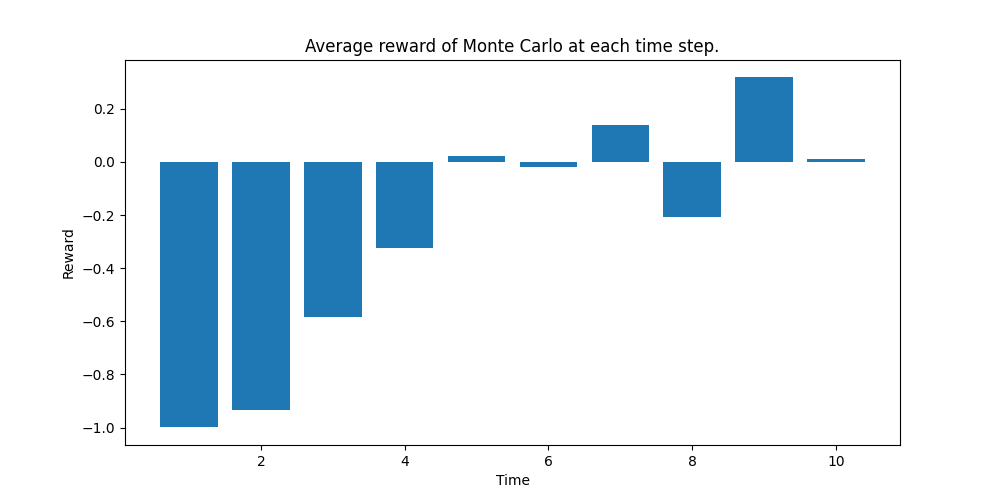
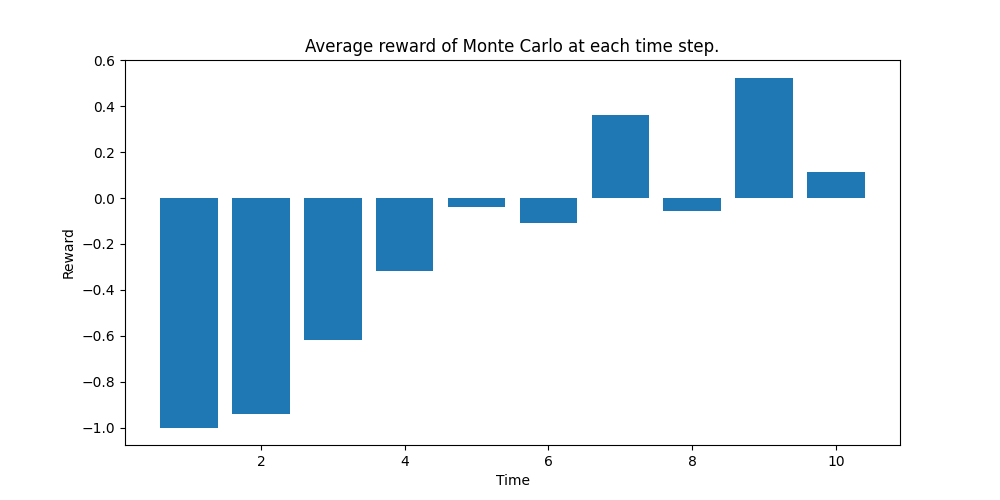
Final report and updated plots

diff --git a/report_src/report_group14.tex b/report_src/report_group14.tex
@@ -54,6 +54,7 @@
 \usepackage{amsthm}
 \usepackage{hyperref}
 \usepackage{diagbox}
+\usepackage{verbatim}
 
 \usepackage[
 backend=biber,
@@ -122,12 +123,13 @@ style=apa,
 \begin{document}
 \makemytitle
 \begin{center}
-    \textbf{03-04-2025}\\
+    \textbf{06-04-2025}\\
 \end{center}
 
 \noindent By Ella Kemperman, student number \textit{s1119890}, Ioana-Anastasia Orasanu, student number \textit{s1112418}, Rostyslav Redchyts, student number \textit{s1113227}, Mila van Rijsbergen student number \textit{s1128515}.
 
 \section{Introduction}
+\begin{comment}
 Reinforcement Learning (RL) has become increasingly relevant in Machine Learning over the past decade. RL has been irreplaceable in robotics for a while, and recently, it has also contributed to the AI revolution through approaches like RLHF (Reinforcement Learning with Human Feedback). Despite its prevalence, RL is already a mature and complex field, which can be intimidating to newcomers. Hence, in this report, we look over a few simple algorithms to explain how they work and get some insight into how they differ from each other.
 \\ [0.3cm]
 More specifically, various RL algorithms were implemented, and their performance in a certain environment was compared. This environment was designed specifically for this project and involved an agent, also referred to as 'the cat', navigating a 2-dimensional grid while chasing a target, metaphorically referred to as 'the mouse'.
@@ -136,7 +138,14 @@ The environment (see \autoref{fig:environment}) is discrete, with both the agent
 \\[0.3cm]
 The agent receives a penalty of -1 for each step that resulted in an empty cell, a reduced penalty of -0.1 for landing on a tree, and a reward of +20 for catching the mouse (regardless of the cell type). These rewards were chosen to motivate the agent to catch the mouse as quickly while also giving some space for developing halting strategies.
 \\[0.3cm]
-The project consists of comparing two algorithms from Dynamic Programming (DP), which include Policy Iteration and Value Iteration (discussed in \autoref{sec: dynamic programming}; a Monte-Carlo method (discussed in \autoref{sec: monte-carlo}); and three Temporal Difference (TD) algorithms (mainly discussed in \autoref{sec: temporal difference}): Sarsa, Q-Learning, and Deep Q-Learning (discussed in \autoref{app: deep q-learning}). To achieve this, the performance of the learned policies was compared as they were being refined during learning. Furthermore, the final policies and their returns are compared as well. This is done in \autoref{sec: comparison and discussion}.
+The project consists of comparing two algorithms from Dynamic Programming (DP), which include Policy Iteration and Value Iteration (see \autoref{sec: dynamic programming}; a Monte-Carlo method (see \autoref{sec: monte-carlo}); and three Temporal Difference (TD) algorithms (see \autoref{sec: temporal difference}): Sarsa, Q-Learning, and Deep Q-Learning (see \autoref{app: deep q-learning}). To achieve this, the performance of the learned policies was compared as they were being refined during learning. Furthermore, the final policies and their returns are compared as well. This is done in \autoref{sec: comparison and discussion}.
+\end{comment}
+
+Reinforcement Learning (RL) has become crucial in Machine Learning by contributing to the AI revolution through approaches such as RLHF (Reinforcement Learning with Human Feedback). In this report, some RL algorithms are discussed in order to get insight into how they differ.
+\\[0.3cm]
+The environment in which the algorithms were tested was specifically designed for this project. Thus, it involves an agent, also referred to as ’the cat’, navigating a 2-dimensional grid while chasing a target, ’the mouse’. The environment (see \autoref{fig:environment}) is discrete and both the agent and the target have four possible movements. Two obstacles were added to the environment: a "tree" cell which the cat can traverse but the mouse cannot, and walls in between certain cells, impermeable for the cat, permeable for the mouse. The agent receives a penalty of -1 for each step that resulted in an empty cell, a reduced penalty of -0.1 for landing on a tree, and a reward of +20 for catching the mouse (regardless of the cell type).
+\\[0.3cm]
+The project consists of comparing two algorithms from Dynamic Programming (DP) (see \autoref{sec: dynamic programming}); a Monte-Carlo (MC) method (see \autoref{sec: monte-carlo}), and two Temporal Difference (TD) algorithms (see \autoref{sec: temporal difference}). Additionally, Deep Q-learning has been implemented (see \autoref{app: deep q-learning}). Finally, the performance of the learned policies was compared as they were being refined during learning, in addition to the policies' final returns. This is done in \autoref{sec: comparison and discussion}.
 
 \begin{figure}[H]
     \centering
@@ -154,12 +163,14 @@ The project consists of comparing two algorithms from Dynamic Programming (DP), 
 
 \section{Dynamic Programming}
 \label{sec: dynamic programming}
-The idea behind the first family of algorithms discussed --- Dynamic Programming --- lies in the approach of dividing a large problem (e.g. finding an optimal policy) into smaller sub-problems, like improving a current policy, based on the current estimate of the value function. Solving these smaller subproblems is guaranteed to lead to an optimal solution to the main problem (although it might take infinite iterations).
+The idea behind the first family of algorithms discussed --- Dynamic Programming (DP) --- lies in the approach of dividing a large problem into smaller sub-problems, such as improving a current policy, based on the current estimate of the value function. Solving these smaller subproblems is guaranteed to lead to an optimal solution to the main problem.
 \\[0.3cm]
-For this project, two DP algorithms were implemented and tested: Policy iteration and Value Iteration.
+For this project, two DP algorithms were implemented and tested: Policy Iteration (\autoref{subsec: policy iteration}) and Value Iteration (\autoref{subsec: value iteration}).
 
 \subsection{Policy Iteration}
-The main idea of Policy Iteration is to find an optimal solution through planning. Specifically, the process consists of iteratively evaluating the current policy (through Policy Evaluation) and improving this policy, based on the updates estimate of the value function (through Policy Improvement), until convergence.\\[0.3cm]
+\label{subsec: policy iteration}
+\begin{comment}
+The main idea of Policy Iteration is to find an optimal solution through planning. Specifically, the process consists of iteratively evaluating the current policy (through Policy Evaluation) and improving this policy, based on the updated estimate of the value function (through Policy Improvement), until convergence.\\[0.3cm]
 Refer to \autoref{fig:policy_iteration_pseudocode} for a full pseudocode.
 
 \subsubsection{Policy Evaluation}
@@ -177,17 +188,36 @@ Policy Improvement algorithm relies on the estimated value function, obtained th
 \end{figure}
 
 \subsubsection{Implementation}
-This algorithm was implemented as a set of methods in the \code{DynamicProgrammingPolicy} class. This allows the algorithm to update the policy by just modifying itself. The policy itself is stored as a dictionary, mapping each possible observation to the action that is taken. The state-value function is also represented as a dictionary that maps state to value. The policy iteration and policy improvement parts were separated into two methods, the former calling policy evaluation and then policy improvement, until no more changes to the policy are made.
+This algorithm was implemented as a set of methods in the \code{DynamicProgrammingPolicy} class. This allows the algorithm to update the policy by just modifying itself. The policy itself is stored as a dictionary, mapping each possible observation to the action taken. The state-value function is also represented as a dictionary that maps state to value. The policy iteration and policy improvement parts were separated into two methods, the former calling policy evaluation and then policy improvement, until no more changes to the policy are made.
 
-\subsection{Value Iteration}
-The principle of optimality states that a policy $\pi$ achieves the optimal value from state s, $v_\pi(s) = v^*(s)$ if and only if from any state $s'$ reachable from s, $\pi$ achieves the optimal value $v_\pi(s') = v^*(s')$. Thus, this theorem directly leads to the value iteration algorithm. With value iteration, the most optimal state value function is computed by iteratively updating the estimate. The algorithm outputs a new approximately optimal policy.
+\end{comment}
+
+The main idea of Policy Iteration is to find an optimal solution through planning. Specifically, the process consists of iteratively evaluating the current policy (Policy Evaluation) and improving this policy, based on the updated estimate of the value function (Policy Improvement), until convergence. Refer to \autoref{fig:policy_iteration_pseudocode} for a full pseudocode.
 \\[0.3cm]
-The process starts by selecting a random value function, over which is iterated using the Bellman equations as an update rule, updating the values for all states. This process gets repeated until convergence to optimal value function, which is guaranteed. Once the optimal value is found, it takes the actions such that the maximum in the Bellman optimality equation is satisfied. For the pseudocode, see \autoref{fig:value_iteration_pseudocode}.
+The state values are updated using the Bellman expectation equation, estimating future rewards by considering the rewards of the successor states weighted by the probability of reaching that state. Convergence, although possibly expensive, is guaranteed. To avoid increased computation costs, a delta value is defined as the maximal value difference through all states after the current iteration. Once it is low enough, the algorithm is terminated.
+\\[0.3cm]
+The policy is refined by selecting the action that maximises expected rewards for each state, where the update is based on the value function.
 
 \subsubsection{Implementation}
-Value iteration was implemented in code as a method of the \code{DynamicProgrammingPolicy} class. As can be seen in \autoref{fig: class diagram}, this class inherits from \code{Policy}. The algorithm mainly works by storing the state values in a dictionary that has as keys the states and as value the state value. It updates this dictionary using the value obtained by using the Bellman equation on each possible action, picking the value where the action is maximal. It then also updates the action taken in the policy to the new best action.
+Implemented in the \code{DynamicProgrammingPolicy} class, the algorithm stores policies and state values as a dictionary. The policy iteration and policy improvement parts were separated into two methods, the former calling policy evaluation and then policy improvement, until no more changes to the policy are made.
+
+\begin{figure}[H]
+    \centering
+    \includegraphics[width=0.5\linewidth]{images/policy_iteration_pseudocode.png}
+    \caption{Policy Iteration pseudocode \parencite[p. 80]{sutton-2018}}
+    \label{fig:policy_iteration_pseudocode}
+\end{figure}
+
+\subsection{Value Iteration}
+\label{subsec: value iteration}
+Value iteration is based on the principle of optimality, which states that a policy $\pi$ achieves the optimal value from state s, $v_\pi(s) = v^*(s)$ if and only if from any state $s'$ reachable from s, $\pi$ achieves the optimal value $v_\pi(s') = v^*(s')$. The algorithm outputs a new approximately optimal policy. 
 \\[0.3cm]
-Convergence is determined by actively checking the value of \textit{delta} at all states. Once it becomes small enough, the process ends. Since the action taken in each state was already updated during the running of the algorithm, the policy is now approximately optimal.
+The process starts by selecting a random value function, over which is iterated using the Bellman equations as an update rule, updating the values for all states. Once the optimal value is found, it takes the actions such that the maximum in the Bellman optimality equation is satisfied. For the pseudocode, see \autoref{fig:value_iteration_pseudocode}.
+
+\subsubsection{Implementation}
+Implemented in the \code{DynamicProgrammingPolicy} class, as seen in \autoref{fig: class diagram}, this class inherits from \code{Policy}. A dictionary was used, with each state mapping to the corresponding value. The dictionary gets updated by selecting the value where the action is maximal based on the Bellman equation.
+\\[0.3cm]
+Convergence is determined by actively checking the value of $\Delta$ at all states. Once it becomes small enough, the process ends. Since the action taken in each state was already updated during the running of the algorithm, the policy is now approximately optimal.
 
 \begin{figure}[H]
     \centering
@@ -198,7 +228,7 @@ Convergence is determined by actively checking the value of \textit{delta} at al
 \section{Monte-Carlo}
 
 \label{sec: monte-carlo}
-Monte Carlo (MC) updates the model using data obtained from running simulations of the environment. This allows it to work without assumptions about how the model should work. How MC updates its values differs per method used. In this report, the MC First-Visit on-policy algorithm was used. The pseudocode is given in \autoref{fig: MC psuedocode}.
+In RL, Monte-Carlo (MC) methods update the model using the data obtained from running simulations of the environment, thus avoiding the need for the full knowledge of the environment. MC updates its values differently, depending on the algorithm being used. In this report, the MC First-Visit on-policy algorithm was used. The pseudocode is provided in \autoref{fig: MC psuedocode}.
 \begin{figure}[H]
     \centering
     \includegraphics[width=0.5\linewidth]{images/mc_on_policy_first_visit.png}
@@ -207,15 +237,10 @@ Monte Carlo (MC) updates the model using data obtained from running simulations 
 \end{figure}
 
 \subsection{First-Visit}
-After each episode, with First-Visit, the program takes the information learned in an episode and assigns for each state-action pair the gained reward for taking the action plus the discounted total reward for the next pair, see \autoref{eq: first-visit}.
-\begin{equation}
-    \label{eq: first-visit}
-    q(S_t,A_t) = R_{t+1}+\gamma q(S_{t+1},A_{t+1})
-\end{equation}
-With $S_t$ the state at time $t$, $A_t$ the action taken at time $t$, $R_t$ the reward obtained at time $t$, $\gamma$ the discount, and $q$ the function mapping state and action to their value. This is done for all first encounters of a state-action pair in the episode. Afterwards, the average for each state-action pair is determined over all the values gained for a state-action pair over $n$ episodes.
+With First-Visit, after each episode, the program takes the learned information and calculates the returns at each time step. For the first time a state-action pair is discovered in the episode, the return from that time point is added to a list of returns, which is averaged to obtain the new state-action value function for that state-action pair.
 
 \subsection{On-Policy}
-After each episode, the program looks at all the acquired state-action values. It determines the best action for each state based on which state-action pair has the highest value. To make sure all states and actions are seen by the program, the policy is updated with an $\epsilon$-soft policy, the best action to take will have a higher chance of getting picked but still allow the other actions to be chosen as well. An epsilon soft policy means that the probability of each action given the state is given by \autoref{eq: epsilon greedy}:
+After each episode, the program looks at all the acquired state-action values, determining the best action for each state based on the highest value, for each state-action pair. The policy is updated for a certain state by acting $\epsilon$-greedy on the value function for that state. The probability for each action given $\epsilon$ is then given by \autoref{eq: epsilon greedy}.
 \begin{equation}
 \label{eq: epsilon greedy}
     \pi (a|s)=\left\{ \begin{array}{rcl}
@@ -223,51 +248,51 @@ After each episode, the program looks at all the acquired state-action values. I
          & \mbox{if} & a \neq \argmax_a Q(s,a)
     \end{array} \right.
 \end{equation}
-This way of updating the policy guarantees that the new policy is better than the one before but it cannot guarantee an optimal policy.
+Thus a better policy is guaranteed, but not always an optimal one.
 
 \subsection{Implementation}
-The algorithm was implemented as a method of the \code{MonteCarloPolicy} class (for class structure, see \autoref{fig: class diagram}). The code first samples an episode using itself as a policy, and then updates its internal $Q$ function, which is a dictionary mapping state-action to a reward, based on the episode returns. The policy then updates itself by creating an $\epsilon$-greedy \code{ActionSampler} on the optimal action, assigning it to the current state. Note that $\epsilon$ does not decay, so the policy will always stay $\epsilon$-soft.
+Implemented in the \code{MonteCarloPolicy} class (see \autoref{fig: class diagram}), it first samples an episode using itself as a policy, afterwards updating its internal $Q$ function, a dictionary mapping state-action to a reward, based on the episode returns. The policy is updated by creating an $\epsilon$-greedy \code{ActionSampler} on the optimal action. Note that $\epsilon$ does not decay, so the policy will always stay $\epsilon$-soft.
 
 \section{Temporal Difference}
 \label{sec: temporal difference}
-Temporal Difference (TD) Learning algorithms are another set of algorithms that learn the environment from experience rather than by computing the optimal policy based on a model. It achieves this by learning the optimal state-action value function $q^*(s, a)$ by sampling many episodes. While this is similar to Monte-Carlo methods described in \autoref{sec: monte-carlo}, Temporal Difference learning does not use the full return computed at the end of the episode; rather it uses bootstrapping to allow it to update the $Q(s, a)$ after each step taken in the episode. This enables it to be used in environments without terminal states. In comparison to Monte-Carlo, TD algorithms generally have higher bias but lower variance. 
+Temporal Difference (TD) Learning algorithms are another set of algorithms that learn the environment from experience rather than by computing the optimal policy based on a model. TD Learning achieves this by learning the optimal state-action value function $q^*(s, a)$ by sampling many episodes. Although similar to MC methods, TD learning does not use the full return computed at the end of the episode; rather it uses bootstrapping to allow it to update the $Q(s, a)$ after each step taken in the episode. This enables it to be used in environments without terminal states. Compared to Monte-Carlo, TD algorithms generally have higher bias but lower variance. 
 \\[0.3cm]
-Two main variants of Temporal Difference learning are discussed in this report: SARSA, an on-policy control algorithm, discussed in \autoref{subsec: sarsa}, and Q-learning, an off-policy control algorithm, discussed in \autoref{subsec: q-learning}. 
+Two main variants of TD learning are discussed in this report: SARSA, an on-policy control algorithm (\autoref{subsec: sarsa}), and Q-learning, an off-policy control algorithm (\autoref{subsec: q-learning}). 
 
 \subsection{SARSA}
 \label{subsec: sarsa}
-SARSA is an on-policy temporal difference learning control algorithm. SARSA is short for 'State, Action, Reward, State, Action', which refers to how the state-action value function is updated at each time step. The goal of the algorithm is to approximate $Q(s,a) \approx q^*(s,a)$. This is done by sampling many episodes, and for each step of the episode, updating the value function using the following update rule:
+SARSA is an on-policy TD learning control algorithm. SARSA is short for 'State, Action, Reward, State, Action', which refers to how the state-action value function is updated at each time step. The goal of the algorithm is to approximate $Q(s,a) \approx q^*(s,a)$. This is done by sampling many episodes, and for each step of the episode, updating the value function using the following update rule:
 \begin{equation}
     \label{eq: sarsa}
-    Q(S,A) := Q(S,A) + \alpha(R + \gamma Q(S', A') - Q(S, A))
+    Q(S_t,A_t) := Q(S_t,A_t) + \alpha(R_t + \gamma Q(S_{t+1}, A_{t+1}) - Q(S_t, A_t))
 \end{equation}
-Note that $\alpha$ is the learning rate, $\gamma$ is the discount factor, $S$ is the current state, $S'$ is the next state, which is reached after taking action $A$. Finally, $A'$ is the action taken from state $S'$. This action is generated by acting $\epsilon$-greedy on $Q$ for the given state. 
+Note that $\alpha$ is the learning rate, $\gamma$ is the discount factor, $S_t$ the state at time $t$, and $A_t$ the action at time $t$. The next action ($A_{t+1}$) is generated by acting $\epsilon$-greedy on $Q$ for the given state-action pair. 
 \\[0.3cm]
-The algorithm works by first initalising for all state, action pairs, $Q(s,a) = 0$. It will then repeat the following over a prespecified number of episodes. It first picks an action taken from the starting state of the episode, after which it will first take the determined action, get the new state $S'$, use this new state together by acting $\epsilon$-greedy on the value function to get a new action $A'$, after which \autoref{eq: sarsa} is used to update the state-action value function. This is repeated until the episode is finished.
+The algorithm first initialises all state-action pairs, $Q(s,a) = 0$. It will then repeat the following over a specified number of episodes. It first picks an action taken from the starting state of the episode, after which it will first take the determined action. A new state $S_{t+1}$, uses this new state together by acting $\epsilon$-greedy on the value function to get a new action $A_{t+1}$. Afterwards, \autoref{eq: sarsa} is used to update the state-action value function. This is repeated until the episode is finished.
 \\[0.3cm]
-Compared to Q-Learning, SARSA generally chooses a safer path during training, which makes it more likely to converge on an optimal policy, while it does cause it to need more steps than Q-Learning.
+Compared to Q-Learning, SARSA generally chooses a safer path during training, which makes it more likely to converge to an optimal policy while requiring more steps than Q-Learning.
 
 \subsubsection*{Implementation}
-This algorithm was implemented as a method of the \code{TemporalDifferencePolicy} class (for class structure, see \autoref{fig: class diagram}). The code learns over $n$ episodes, each episode deciding its actions $\epsilon$-greedy, updating its state-action value function $Q$ along the way, which is represented by a dictionary mapping state-action pairs to their value. When finished, it computes a new policy by acting greedily on the value function. This policy is then returned. Note that usually, the policy derived from $Q$ is $\epsilon$-greedy. However, this implementation acts greedily instead in the final policy, since it is assumed to have arrived at an approximately optimal policy. 
+Implemented as a method of the \code{TemporalDifferencePolicy} class (see \autoref{fig: class diagram}) it learns over $n$ episodes. Each episode decides its actions $\epsilon$-greedy, updating its state-action value function $Q$ along the way, which is represented by a dictionary mapping state-action pairs to their value. When finished, it computes a new policy by acting greedily on the value function. This policy is then returned. The policy derived from $Q$ is $\epsilon$-greedy. However, this implementation acts greedily in the final policy greedily, since it is assumed to have arrived at an approximately optimal policy. 
 
 \subsection{Q-Learning}
 \label{subsec: q-learning}
-Q-learning is an off-policy algorithm, meaning that it learns the value of the optimal policy independently of the action values \parencite{off-policy-q-learning}. The algorithm is very similar to the value iteration one. While value iteration tries to find the optimal value, q-learning aim at estimating the optimal Q-function. Same as for value iteration, convergence is guaranteed for sufficient experience. The goal of Q-learning is to determine the optimal action based on the current state. The update rule of Q-learning is as follows:
+Q-learning is an off-policy algorithm, meaning it learns the value of the optimal policy independently of the action values \parencite[p. 475]{poole-2017}. Although similar to value iteration, q-learning aims to estimate the optimal state-action value function ($Q$). Convergence is also guaranteed for sufficient experience. The goal of Q-learning is to determine the optimal action based on the current state. The update rule of Q-learning is as follows:
 \begin{equation}
-    \label{eq: sarsa}
+    \label{eq: q_learning}
     Q(S,A) := Q(S,A) + \alpha(R + \gamma \max_a Q(S', A') - Q(S, A))
 \end{equation}
 \\[0.3cm]
-The algorithm works by initializing a Q-table, which stores the action-values sets. The process continues by selecting and performing an action, after which the reward is measured and the the Q-table gets updated. The process ends when a terminal state \textit{s} is reached.
+The algorithm works by initializing a $Q$-table, which stores the action-value sets. The process continues by selecting and performing an action, after which the reward is measured and the $Q$-table gets updated. The process ends when a terminal state $s$ is reached.
 \\[0.3cm]
-Of great importance is that Q-learning has maximization bias. A solution to this is Double Q-learning, which uses two Q-functions but does not get updated at the same time.
+Of great importance is that Q-learning has maximisation bias. A solution to this is Double Q-learning, which uses two Q-functions but does not get updated at the same time.
 
 \subsubsection*{Implementation}
-The implementation of Q-Learning is extremely similar to that of SARSA. The main difference in the implementation is that the action chosen to update the $Q$ dictionary is a greedy action on $Q$, instead of the actual action taken. Other than that, there are no differences with SARSA.
+Implemented also as a method of the \code{TemporalDifferencePolicy} class (see \autoref{fig: class diagram}) Q-Learning is extremely similar to that of SARSA. The main difference in the implementation is that the action chosen to update the $Q$ dictionary is a greedy action on $Q$, instead of the actual action taken. Other than that, there are no differences from SARSA.
 
 \section{Comparison and Discussion}
 \label{sec: comparison and discussion}
-As can be seen from the plots below, the results derived from Policy Iteration and Value Iteration are strikingly similar. This indicates that both algorithms likely converged to an optimal policy. Both policies seem to mostly reach the terminal state after taking 3-6 steps with the highest average reward being at the fifth time stamp. This indicates that most episodes end quickly, suggesting a great performance of the determined policy.
+From the plots below, the results derived from Policy Iteration and Value Iteration are strikingly similar. This indicates that both algorithms likely converged to an optimal policy. Both policies seem to mostly reach the terminal state after taking 3-6 steps with the highest average reward being at the fifth time stamp. This indicates that most episodes end quickly, suggesting a great performance of the determined policy.
 
 \begin{figure}[H]
     \centering
@@ -309,7 +334,7 @@ As can be seen from the plots below, the results derived from Policy Iteration a
     \label{fig:DP_return_probability_comparison}
 \end{figure}
 
-\noindent The Monte Carlo algorithm, on the other hand, failed to arrive at an optimal policy over 100 steps (more steps did not help, as can be seen in \autoref{fig: comparison mc, ql, sarsa}). The plots from \autoref{fig:monte_carlo_r_over_time_and_return_probability} indicate a lower average reward for all time steps, compared to the DP algorithms from earlier. Furthermore, the probability density function suggests that the policy, derived from First Visit Epsilon Greedy Monte Carlo, results in a much higher likelihood of returning a negative reward than any of the DP policies. This can be explained by the fact that Dynamic Programming algorithms have a full context of the environment and use planning internally, while Monte Carlo needs to rely on the limited information obtained through the interaction with the environment.
+\noindent The MC algorithm, on the other hand, failed to arrive at an optimal policy over 100 steps (see \autoref{fig: comparison mc, ql, sarsa}). The plots from \autoref{fig:monte_carlo_r_over_time_and_return_probability} indicate a lower average reward for all time steps compared to the DP algorithms from earlier. Furthermore, the probability density function suggests that the policy, derived from First Visit Epsilon Greedy MC, results in a much higher likelihood of returning a negative reward than any of the DP policies. This can be explained by the fact that DP algorithms have a full context of the environment and use planning internally, while MC needs to rely on the limited information obtained through interaction with the environment.
 
 \begin{figure}[H]
     \centering
@@ -329,7 +354,7 @@ As can be seen from the plots below, the results derived from Policy Iteration a
     \label{fig:monte_carlo_r_over_time_and_return_probability}
 \end{figure}
 
-\noindent As for the Temporal Difference algorithms (see \autoref{fig:sarsa_qlearning_comparison}), both SARSA and Q-Learning seem to perform quite similarly, with SARSA displaying a slightly better performance. Similar to results from the DP algorithms, it can be seen that the first two steps yield a negative reward, though unlike Q-Learning, SARSA learned to obtain significant positive reward on the third step. The return probability distributions indicate a low chance of receiving a negative total reward, displaying a significantly higher performance compared to MC.
+\noindent As for the TD algorithms (see \autoref{fig:sarsa_qlearning_comparison}), both SARSA and Q-Learning seem to perform quite similarly, with SARSA displaying a slightly better performance. Similar to results from the DP algorithms, it can be seen that the first two steps yield a negative reward, though unlike Q-Learning, SARSA learned to obtain significant positive reward on the third step. The return probability distributions indicate a low chance of receiving a negative total reward, displaying a significantly higher performance compared to MC.
 
 \begin{figure}[H]
     \centering
@@ -369,23 +394,22 @@ As can be seen from the plots below, the results derived from Policy Iteration a
     \label{fig:sarsa_qlearning_comparison}
 \end{figure}
 
-\noindent When comparing the learning behaviour of First-Visit Monte Carlo, Q-Learning, and SARSA (see \autoref{fig: comparison mc, ql, sarsa}), it can be seen that both SARSA and Q-Learning stabilise quite quickly at the same average reward obtained, after about 50 learning steps. Monte-Carlo also stabilises at this point, although it is less stable and has a lower average value. 
+\noindent When comparing the learning behaviour of First-Visit MC, Q-Learning, and SARSA (see \autoref{fig: comparison mc, ql, sarsa}), it can be seen that both SARSA and Q-Learning stabilise quite quickly at the same average reward obtained, after about 50 learning steps. Monte-Carlo also stabilises at this point, although it is less stable and has a lower average value. 
 
 \begin{figure}[H]
     \centering
     \includegraphics[width=0.7\linewidth]{../plots/comparison/comparison_plot_final.png}
-    \caption{Comparison of the average reward evolution over the course of learning of First-Visit Monte Carlo, Q-Learning, and SARSA}
+    \caption{Comparison of the average reward evolution over the course of learning of First-Visit MC, Q-Learning, and SARSA}
     \label{fig: comparison mc, ql, sarsa}
 \end{figure}
 
 
 \section{Conclusion}
-In this report, some common algorithms used in Reinforcement Learning (RL) were discussed. These algorithms include Policy Iteration, Value Iteration, First-Visit Epsilon-Greedy Monte Carlo, SARSA, and Q-learning. Having analysed data from all the algorithms (see \autoref{fig:total_return_ocmparison}), it was found that Dynamic Programming algorithms (Policy Iteration and Value Iteration) arrived at the best-performing optimal policy. This result indicates that for the cases where the environment is known (or can be easily learned), DP is a great choice.
+In this report, some common algorithms used in RL were discussed. These algorithms include Policy Iteration, Value Iteration, First-Visit Epsilon-Greedy MC, SARSA, and Q-learning. Having analysed data from all the algorithms (see \autoref{fig:total_return_ocmparison}), it was found that Policy Iteration and Value Iteration arrived at the best-performing optimal policy. This result indicates that, for the cases where the environment is known, DP is generally a great choice.
 \\[0.3cm]
-SARSA and Q-Learning fall shortly behind, with SARSA slightly outperforming Q-Learning. Those algorithms did not have any direct knowledge of the environment, and yet were able to arrive at a great policy after seeing 100 episodes for the environment used in this report. Q-Learning 'prefers' to act more risky, resulting in a lower average reward.
+SARSA and Q-Learning fall shortly behind, with SARSA slightly outperforming Q-Learning. Those algorithms did not have any direct knowledge of the environment and still arrived at a great policy after seeing 100 episodes of training in the environment used in this report. Q-Learning 'prefers' to act more riskily, resulting in a lower average reward.
 \\[0.3cm]
-First-Visit Epsilon-Greedy Monte Carlo yielded the worst results of all the policies. The results clearly indicate that it performs significantly better than the random policy, indicating that it did learn from the environment. Yet, First Visit MC only learns from the first instance of the state-action pair in an episode, making the convergence slower.
-
+First-Visit Epsilon-Greedy MC yielded the worst results of all the policies. The results clearly indicate that it performs significantly better than the random policy, indicating that it did learn from the environment. However, it still seems to converge approximately as fast as the TD algorithms. The main reason for the lower mean return of MC seems to be caused by a small amount of extremely low returns.
 \begin{figure}[H]
     \centering
     \includegraphics[width=0.5\linewidth]{../plots/comparison/total_return_comparison.png}
@@ -393,14 +417,14 @@ First-Visit Epsilon-Greedy Monte Carlo yielded the worst results of all the poli
     \label{fig:total_return_ocmparison}
 \end{figure}
 
-
 \printbibliography[title={References}]
 
+\newpage
 \begin{appendices}
 
 \section{Deep Q-Learning}
 \label{app: deep q-learning}
-As an additional exercise, Deep Q-learning (DQL) was implemented. In contrast to the algorithms discussed in the main report, Deep Q-Learning is not tabular, meaning that it does not compute a lookup table for every single state. This is mainly useful when dealing with environments that have an extremely large observation space since it would be impossible to use tabular methods for these types of environments since training would take too long while likely also taking too much space to store all information.
+As an additional exercise, Deep Q-learning (DQL) was implemented. In contrast to the algorithms discussed in the main report, DQL is not tabular, meaning that it does not compute a lookup table for every single state. This is mainly useful when dealing with environments that have an extremely large observation space since it would be impossible to use tabular methods for these types of environments since training would take too long while likely also taking too much space to store all information.
 
 \subsection{Theoretical Deep Q-Learning}
 Deep Q-Learning uses a neural network to circumvent the need for lookup tables. At the output layer, this neural network needs to have one neuron for each possible action. The output value of a single neuron in the output layer represents the value of this action in the given state. From these output values, the optimal action can for instance be selected greedily by picking the action with the largest value (softmax could also be used, picking each action at the probability specified by softmax). 
@@ -419,13 +443,8 @@ The basic implementation of DQL is fairly simple. Two models are maintained, the
 \\[0.3cm]
 There are, however, some issues with this implementation of DQL. Firstly, the target is determined by the previous model. Since this model is constantly updating, the algorithm is chasing a moving target, which can lead to algorithm instability \parencite{lecture6}. To solve this issue, instead of moving the target after every step, the target is moved after $n$ steps. This somewhat improves model stability.
 \\[0.3cm]
-This improvement to the base algorithm was still not enough to make DQL work. This was caused by that the model trains on each episode only once, and that all data it trains on is sequential, making the model constantly need to adapt to the current episode. To circumvent this issue, experience replay was used. Many episodes were sampled, for each episode storing a tuple of $(S, A, R, S', T)$ (with $T$ indicating if $S'$ is terminal). This data was then randomly shuffled and trained on using mini-batch gradient descent over a few epochs. This allowed the model to converge on a good policy.
-\\[0.3cm]
-The final model trained was trained on 100000 randomly sampled episodes, training on it in 10 epochs. A learning rate of 0.01 was used, a discount of 0.9 was used, and the batch size was set to 1024. The model was set to reset the target model every 10 batches. The final model receives the average rewards plotted in \autoref{fig: dql over time} at every time step when the agent starts in the top left corner of the environment and the agent starts in the bottom right. Furthermore, the probability distribution of the return was plotted in \autoref{fig: dql return probability}. Note that there were a few extremely bad episodes in there, but in general, the model performs quite well, although not as well as SARSA and Q-Learning. Furthermore, the model does take quite some time to train, and sampling all the data required takes even longer.
-\\[0.3cm]
-In conclusion, the Deep Q-Learning algorithm discussed in this report seems to be able to somewhat approximate an optimal policy, and in cases where tabular algorithms are not possible, DQL could be a good alternative. However, when tabular solutions are feasible, it seems to be more efficient to just use a tabular algorithm such as Q-Learning instead.
-
-\begin{figure}
+This improvement to the base algorithm was still not enough to make DQL work. This was caused by that the model trains on each episode only once, and that all data it trains on is sequential, making the model constantly need to adapt to the current episode. To circumvent this issue, experience replay was used. Many episodes were sampled, for each episode storing a tuple of $(S, A, R, S', T)$ (with $T$ indicating if $S'$ is terminal). This data was then randomly shuffled and trained on using mini-batch GD over a few epochs. This allowed the model to converge on a good policy.
+\begin{figure}[H]
     \centering
     \begin{subfigure}[t]{0.47\linewidth}
         \centering
@@ -442,6 +461,11 @@ In conclusion, the Deep Q-Learning algorithm discussed in this report seems to b
     \caption{Average reward over time and the Return probability distribution for Deep Q-Learning}
     \label{fig: dqlstuff}
 \end{figure}
+\noindent The final model trained was trained on 100000 randomly sampled episodes, training on it in 10 epochs. A learning rate of 0.01 was used, a discount of 0.9 was used, and the batch size was set to 1024. The model was set to reset the target model every 10 batches. The final model receives the average rewards plotted in \autoref{fig: dql over time} at every time step when the agent starts in the top left corner of the environment and the agent starts in the bottom right. Furthermore, the probability distribution of the return was plotted in \autoref{fig: dql return probability}. Note that there were a few extremely bad episodes in there, but in general, the model performs quite well, although not as well as SARSA and Q-Learning. Furthermore, the model does take quite some time to train, and sampling all the data required takes even longer.
+\\[0.3cm]
+In conclusion, the DQL algorithm discussed in this report seems to be able to somewhat approximate an optimal policy, and in cases where tabular algorithms are not possible, DQL could be a good alternative. However, when tabular solutions are feasible, it seems to be more efficient to just use a tabular algorithm such as Q-Learning instead.
+
+
 
 \end{appendices}
 

diff --git a/src/data_collection.py b/src/data_collection.py
@@ -194,10 +194,10 @@ if __name__ == "__main__":
     OPTIONS = {"cat_position": np.array([0, 0]), "target_position": np.array([3, 3])}
     BOARD = gym.make("Board-v0", render_mode="None")
     SEED = 69420
-    N_EPISODES = 1000
+    N_EPISODES = 10000
     MAX_STEPS = 100
-    N_COMPARISON_SAMPLES = 50
-    COMPARISON_TICKS = tuple(range(0, 201, 2))
+    N_COMPARISON_SAMPLES = 500
+    COMPARISON_TICKS = tuple(range(0, 303, 3))
 
     # Data collection
     print("Collecting data")

diff --git a/README.md b/README.md
@@ -16,7 +16,7 @@ The repository consists of 3 main folders. The `src` folder contains the source 
 found below. The `plots` folder contains plots that can be used to compare performance of the different algorithms. The 
 `policies` folder contains a set of pre-trained policies that can be loaded, as well as a pre-trained model for Deep Q-Learning
 (stored in `policies/model.pt`), and the episode data used to construct that model (stored in `policies/episodes.json`).
-The `report_src` folder contains the LaTeX source code used to construct the report.
+The `report_src` folder contains the LaTeX source code used to construct the report, as well as the report itself.
 
 ### Code Structure
 The 'src' folder contains the source code of  the project. The main files of note that can be run are `main` and `data_collection`. 
